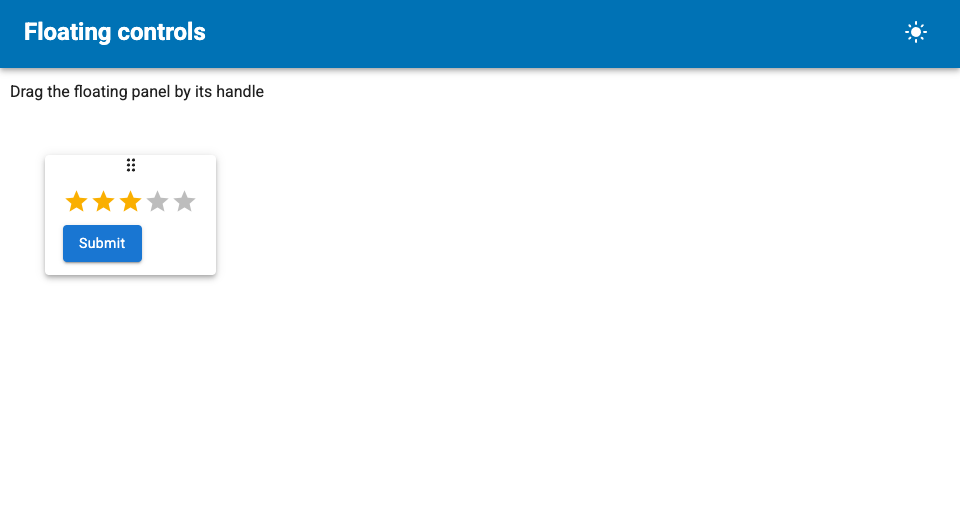
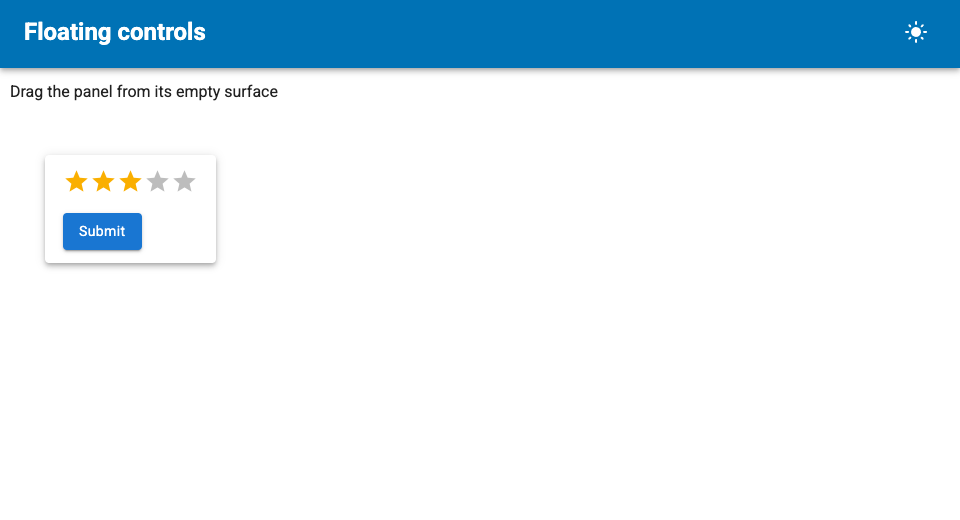
fix: Drag FloatPanel from its surface without a handle

Changed region(s): [[0.0312, 0.3077, 0.2188, 0.5538], [0.0625, 0.1538, 0.3125, 0.2154]]

diff --git a/src/panel_material_ui/layout/FloatPanel.jsx b/src/panel_material_ui/layout/FloatPanel.jsx
@@ -1,6 +1,4 @@
-import Box from "@mui/material/Box"
 import Paper from "@mui/material/Paper"
-import DragIndicator from "@mui/icons-material/DragIndicator"
 
 export function render({model}) {
   const [elevation] = model.useState("elevation")
@@ -31,7 +29,7 @@ export function render({model}) {
   }
 
   const startDrag = (event) => {
-    if (event.button !== 0) { return }
+    if (event.button !== 0 || event.target !== paper.current) { return }
     drag.current = {x: event.clientX, y: event.clientY, position: locationRef.current}
     event.currentTarget.setPointerCapture(event.pointerId)
     event.preventDefault()
@@ -61,29 +59,25 @@ export function render({model}) {
   return (
     <Paper
       ref={paper}
+      aria-label="Floating panel"
       elevation={elevation}
+      onPointerDown={startDrag}
+      onPointerMove={onPointerMove}
+      onPointerUp={endDrag}
+      onPointerCancel={endDrag}
+      onKeyDown={onKeyDown}
+      role="group"
       square={square}
+      tabIndex={0}
       variant={variant}
       sx={[{
         position: "fixed", left: location[0], top: location[1], zIndex: "modal",
         width: "max-content", maxWidth: "100vw", maxHeight: "100vh",
-        display: "flex", flexDirection: "column", overflow: "auto",
+        display: "flex", flexDirection: "column", gap: 1, p: 1, overflow: "auto",
+        cursor: "grab", touchAction: "none",
       }, sx || {}]}
     >
-      <Box
-        aria-label="Drag floating panel"
-        onPointerDown={startDrag}
-        onPointerMove={onPointerMove}
-        onPointerUp={endDrag}
-        onPointerCancel={endDrag}
-        onKeyDown={onKeyDown}
-        role="button"
-        tabIndex={0}
-        sx={{display: "flex", justifyContent: "center", cursor: "grab", touchAction: "none", userSelect: "none"}}
-      >
-        <DragIndicator fontSize="small" sx={{pointerEvents: "none"}} />
-      </Box>
-      <Box sx={{display: "flex", flexDirection: "column", p: 1}}>{objects}</Box>
+      {objects}
     </Paper>
   )
 }

diff --git a/src/panel_material_ui/widgets/Rating.jsx b/src/panel_material_ui/widgets/Rating.jsx
@@ -46,7 +46,6 @@ export function render({model, el, view}) {
         color={color}
         disabled={disabled}
         emptyIcon={empty ? render_icon(empty, null, size, SIZES[size]) : null}
-        fullWidth
         highlightSelectedOnly={only_selected}
         icon={icon ? render_icon(icon, color, size, SIZES[size]) : null}
         ref={ref}

diff --git a/tests/ui/layout/test_paper.py b/tests/ui/layout/test_paper.py
@@ -19,22 +19,22 @@ def test_paper(page):
 
 
 def test_float_panel_drag_and_content(page):
-    """Dragging the handle updates position without swallowing child clicks (#679)."""
+    """Dragging the surface padding updates position without swallowing child clicks (#679)."""
     button = Button(label="Submit")
     panel = FloatPanel(button, position=(40, 50), elevation=4)
     serve_component(page, panel)
 
     surface = page.locator(".MuiPaper-root")
-    handle = page.get_by_role("button", name="Drag floating panel")
+    expect(page.get_by_role("button", name="Drag floating panel")).to_have_count(0)
     expect(surface).to_have_css("position", "fixed")
     expect(surface).to_have_css("left", "40px")
     expect(surface).to_have_css("top", "50px")
     expect(surface).to_have_class(re.compile("MuiPaper-elevation4"))
-    box = handle.bounding_box()
+    box = surface.bounding_box()
     assert box is not None
-    page.mouse.move(box["x"] + box["width"] / 2, box["y"] + box["height"] / 2)
+    page.mouse.move(box["x"] + 4, box["y"] + 4)
     page.mouse.down()
-    page.mouse.move(box["x"] + box["width"] / 2 + 60, box["y"] + box["height"] / 2 + 30, steps=5)
+    page.mouse.move(box["x"] + 64, box["y"] + 34, steps=5)
     page.mouse.up()
     wait_until(lambda: panel.position == (100, 80), page)
     expect(surface).to_have_css("left", "100px")
@@ -52,11 +52,11 @@ def test_float_panel_keyboard_and_children_update(page):
     """Arrow keys move the panel and list-like children can be replaced (#679)."""
     panel = FloatPanel("Initial", position=(20, 20))
     serve_component(page, panel)
-    handle = page.get_by_role("button", name="Drag floating panel")
-    handle.focus()
-    handle.press("ArrowRight")
+    surface = page.get_by_role("group", name="Floating panel")
+    surface.focus()
+    surface.press("ArrowRight")
     wait_until(lambda: panel.position == (30, 20), page)
-    handle.press("ArrowUp")
+    surface.press("ArrowUp")
     wait_until(lambda: panel.position == (30, 10), page)
     panel.objects = [Button(label="Updated")]
     expect(page.get_by_role("button", name="Updated")).to_be_visible()

diff --git a/tests/ui/widgets/test_sliders.py b/tests/ui/widgets/test_sliders.py
@@ -128,6 +128,8 @@ def test_slider_label_no_trailing_colon_when_value_hidden(page):
 
 @pytest.mark.parametrize('size', ["small", "medium", "large"])
 def test_rating(page, size):
+    warnings = []
+    page.on('console', lambda message: warnings.append(message.text) if message.type == 'warning' else None)
     widget = Rating(value=3, size=size)
     serve_component(page, widget)
 
@@ -136,6 +138,7 @@ def test_rating(page, size):
 
     rating_size = page.locator(f'.MuiRating-size{size.capitalize()}')
     expect(rating_size).to_have_count(1)
+    assert not any('fullWidth' in warning for warning in warnings)
 
 
 # --- EditableIntSlider / EditableFloatSlider throttled tests ---

diff --git a/src/panel_material_ui/layout/base.py b/src/panel_material_ui/layout/base.py
@@ -612,7 +612,7 @@ class Paper(MaterialListLike, PaperMixin):
 class FloatPanel(MaterialListLike, PaperMixin):
     """A draggable, floating Paper surface for Panel and Material UI content.
 
-    Drag the handle to move the panel without blocking interactions with its children.
+    Drag the empty surface to move the panel without blocking interactions with its children.
     ``position`` is the pixel offset from the viewport's left and top edges.
 
     :Example:
